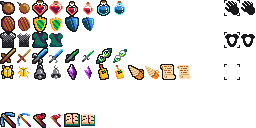
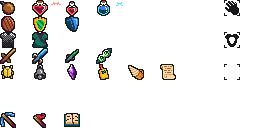
twaked item hover border rendering

diff --git a/ts/items/consumable.ts b/ts/items/consumable.ts
@@ -21,6 +21,56 @@ export class Consumable extends Item {
   }
 }
 
+const time_potion = new Consumable({
+  spriteSheetPos: new Position(6, 0),
+  name: "time_potion",
+  shopName: "Time Potion",
+  cost: 10,
+  description: "Recover 60 seconds$tim",
+});
+
+time_potion.render = (canvasManager: CanvasManager) => {
+  let sheetPos = consumableDic.time_potion.spriteSheetPos;
+  canvasManager.renderSpriteFromSheet(
+    consumableDic.time_potion.sprite,
+    consumableDic.time_potion.pos,
+    consumableDic.time_potion.width,
+    consumableDic.time_potion.height,
+    sheetPos
+  );
+  if (time_potion.mouseHovering) {
+    canvasManager.renderSpriteFromSheet(
+      sprites.item_sheet,
+      time_potion.pos,
+      16,
+      16,
+      time_potion.spriteSheetPos.add(1, 0)
+    );
+  }
+  canvasManager.renderAnimationFrame(
+    sprites.time_potion_pointer_sheet,
+    consumableDic.time_potion.pos,
+    16,
+    16,
+    12,
+    1,
+    consumableDic.time_potion.firstAnimationTic,
+    timeTracker.currentGameTic
+  );
+  canvasManager.renderAnimationFrame(
+    sprites.time_potion_pointer_sheet,
+    consumableDic.time_potion.pos,
+    16,
+    16,
+    12,
+    1,
+    consumableDic.time_potion.firstAnimationTic,
+    timeTracker.currentGameTic,
+    1 / 12,
+    new Position(0, 1)
+  );
+};
+
 export const consumableDic = {
   bomb: new Consumable({
     spriteSheetPos: new Position(0, 0),
@@ -44,13 +94,7 @@ export const consumableDic = {
     cost: 10,
     description: "Gain 1 heart.",
   }),
-  time_potion: new Consumable({
-    spriteSheetPos: new Position(6, 0),
-    name: "time_potion",
-    shopName: "Time Potion",
-    cost: 10,
-    description: "Recover 60 seconds$tim",
-  }),
+  time_potion: time_potion,
   empty: new Consumable({
     spriteSheetPos: new Position(14, 0),
     name: "empty",
@@ -58,40 +102,4 @@ export const consumableDic = {
     cost: 0,
     description: "",
   }),
-};
-
-consumableDic.time_potion.render = (canvasManager: CanvasManager) => {
-  let sheetPos = consumableDic.time_potion.spriteSheetPos;
-  if (consumableDic.time_potion.mouseHovering) {
-    sheetPos = sheetPos.add(1, 0);
-  }
-  canvasManager.renderSpriteFromSheet(
-    consumableDic.time_potion.sprite,
-    consumableDic.time_potion.pos,
-    consumableDic.time_potion.width,
-    consumableDic.time_potion.height,
-    sheetPos
-  );
-  canvasManager.renderAnimationFrame(
-    sprites.time_potion_pointer_sheet,
-    consumableDic.time_potion.pos,
-    16,
-    16,
-    12,
-    1,
-    consumableDic.time_potion.firstAnimationTic,
-    timeTracker.currentGameTic
-  );
-  canvasManager.renderAnimationFrame(
-    sprites.time_potion_pointer_sheet,
-    consumableDic.time_potion.pos,
-    16,
-    16,
-    12,
-    1,
-    consumableDic.time_potion.firstAnimationTic,
-    timeTracker.currentGameTic,
-    1 / 12,
-    new Position(0, 1)
-  );
 };

diff --git a/ts/items/item.ts b/ts/items/item.ts
@@ -52,17 +52,22 @@ export class Item extends GameObject {
   }
 
   render(canvasManager: CanvasManager): void {
-    let sheetPos = this.spriteSheetPos;
-    if (this.mouseHovering) {
-      sheetPos = sheetPos.add(1, 0);
-    }
     canvasManager.renderSpriteFromSheet(
       this.sprite,
       this.pos,
       this.width,
       this.height,
-      sheetPos
+      this.spriteSheetPos
     );
+    if (this.mouseHovering) {
+      canvasManager.renderSpriteFromSheet(
+        this.sprite,
+        this.pos,
+        this.width,
+        this.height,
+        this.spriteSheetPos.add(1, 0)
+      );
+    }
   }
 
   hoverFunction = (cursorPos: Position) => {

diff --git a/ts/items/shopItem.ts b/ts/items/shopItem.ts
@@ -68,8 +68,17 @@ export class ShopItem extends GameObject {
       this.pos,
       16,
       16,
-      this.item.spriteSheetPos.add(this.mouseHovering ? 1 : 0, 0)
+      this.item.spriteSheetPos
     );
+    if (this.mouseHovering) {
+      canvasManager.renderSpriteFromSheet(
+        sprites.item_sheet,
+        this.pos,
+        16,
+        16,
+        this.item.spriteSheetPos.add(1, 0)
+      );
+    }
     canvasManager.renderText(
       "numbers_cost",
       this.pos.add(2, 18),
